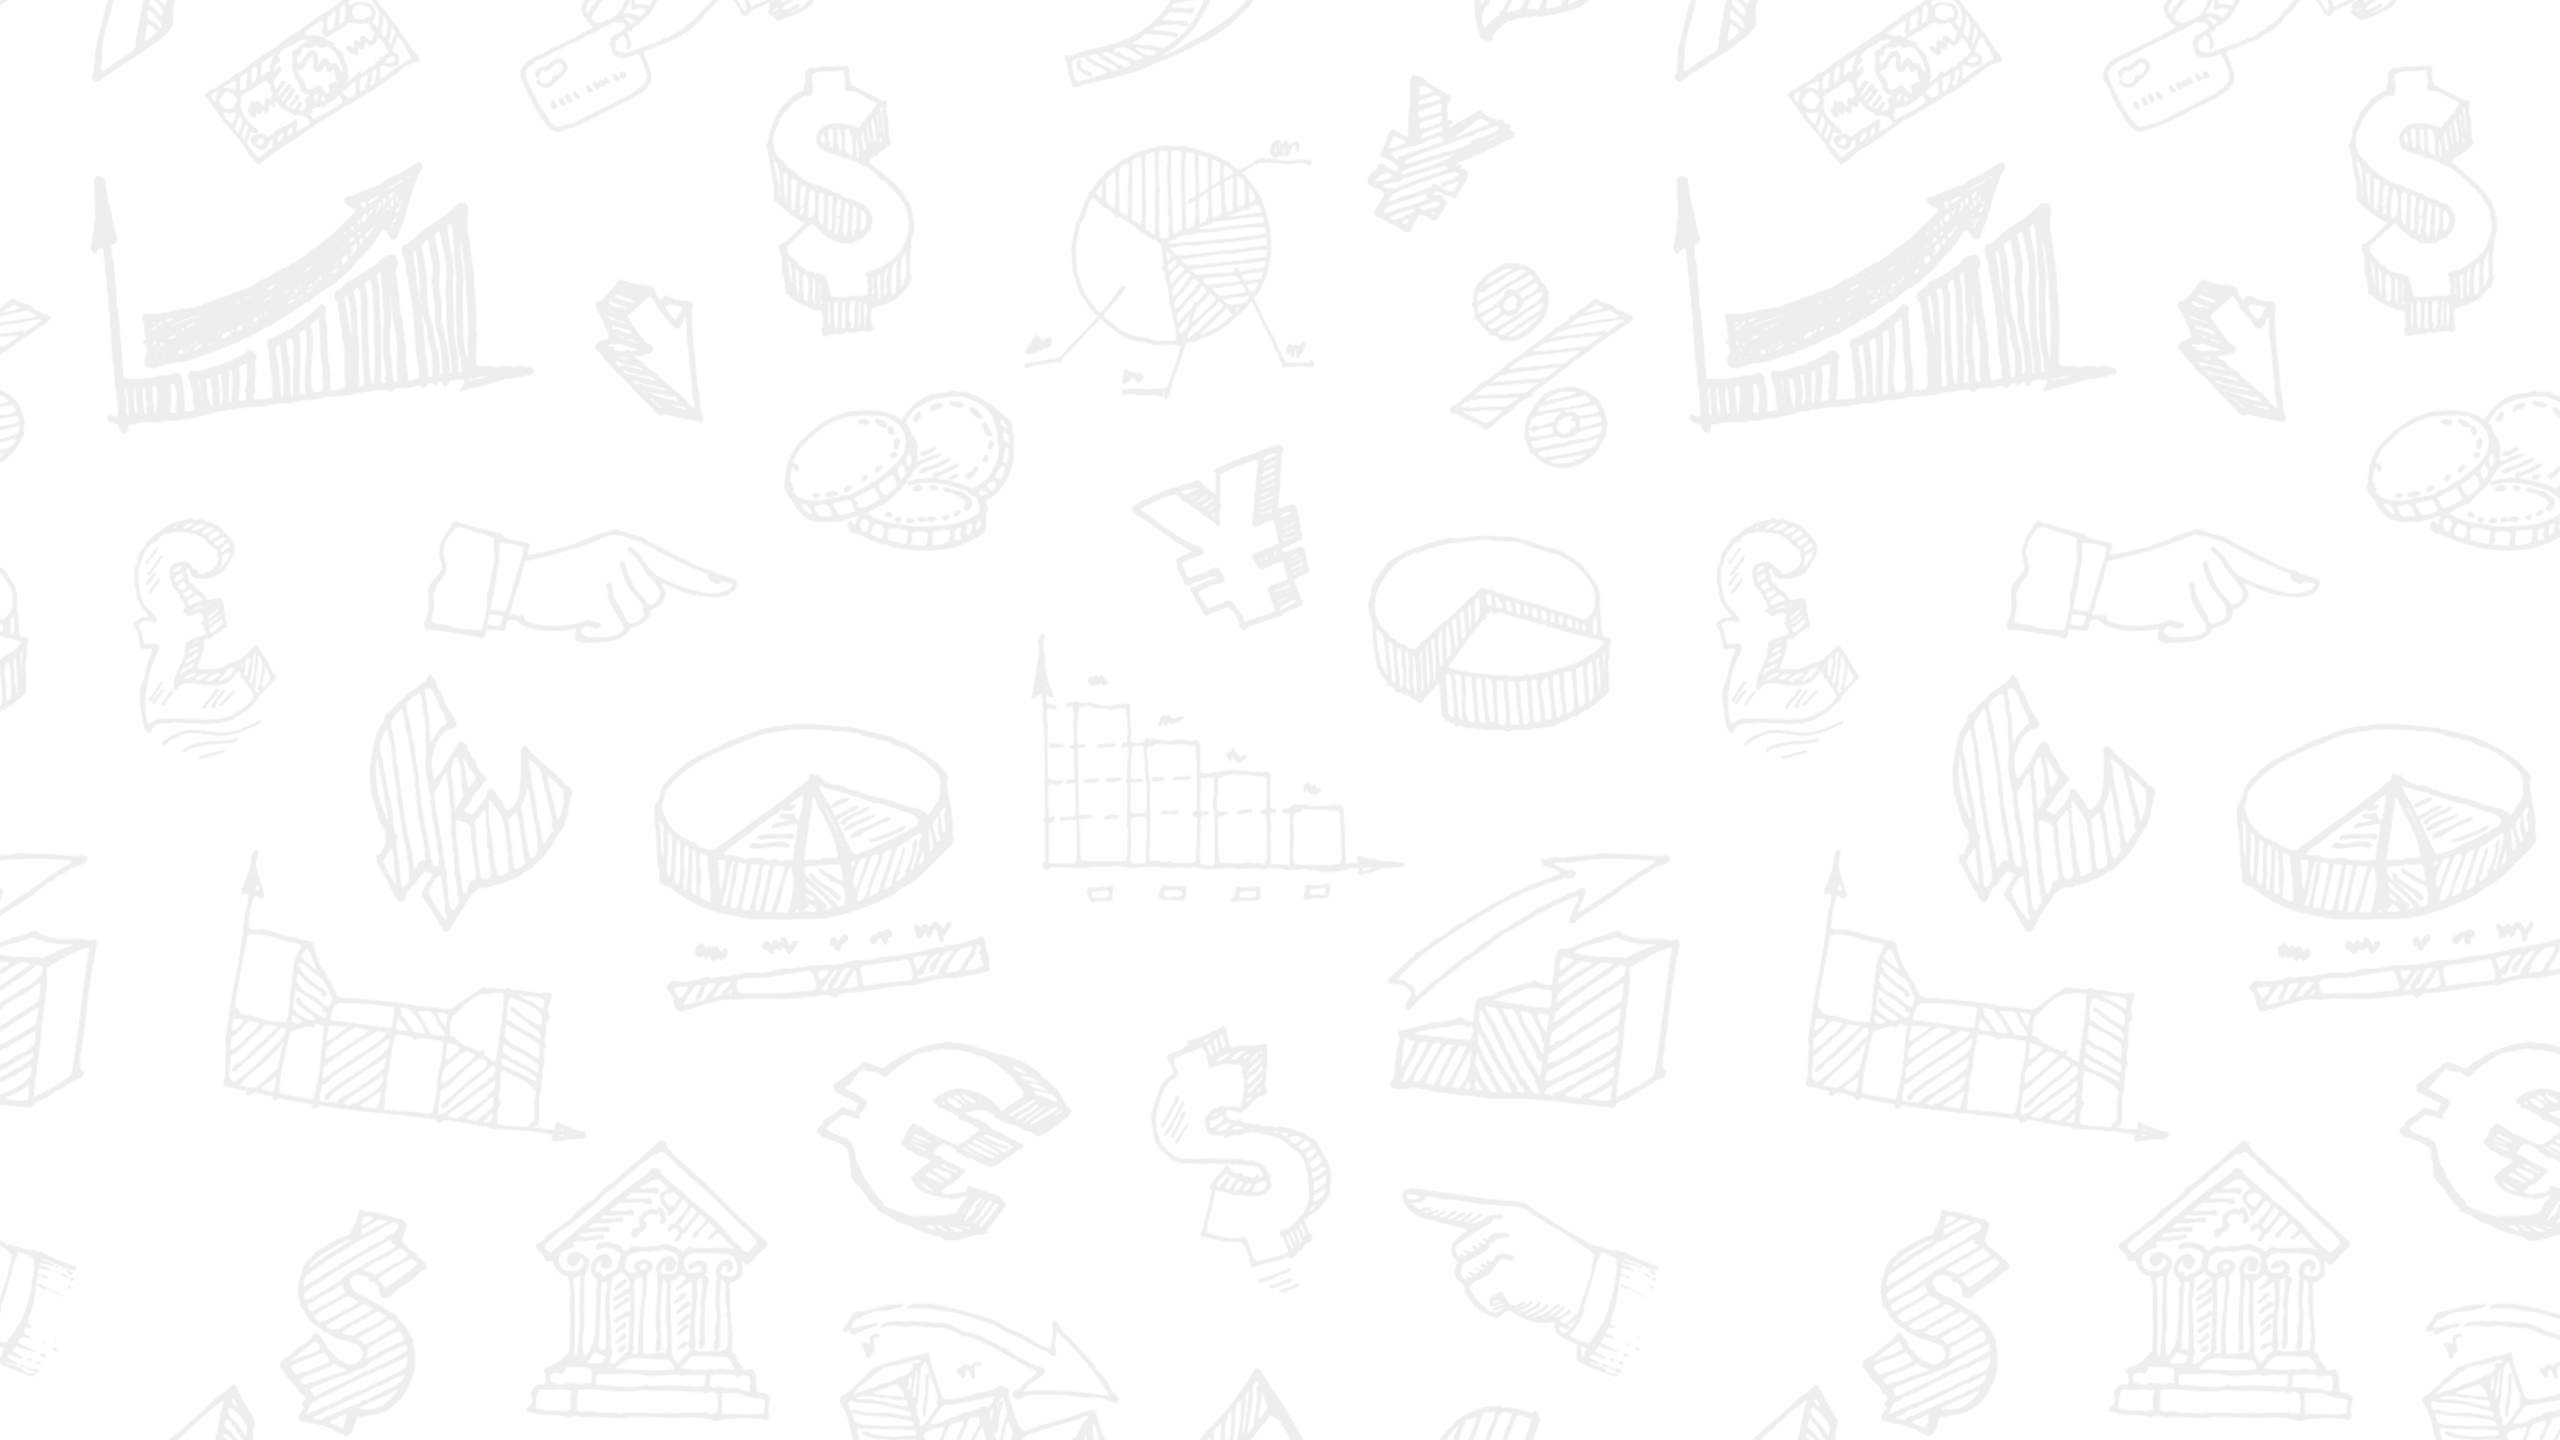
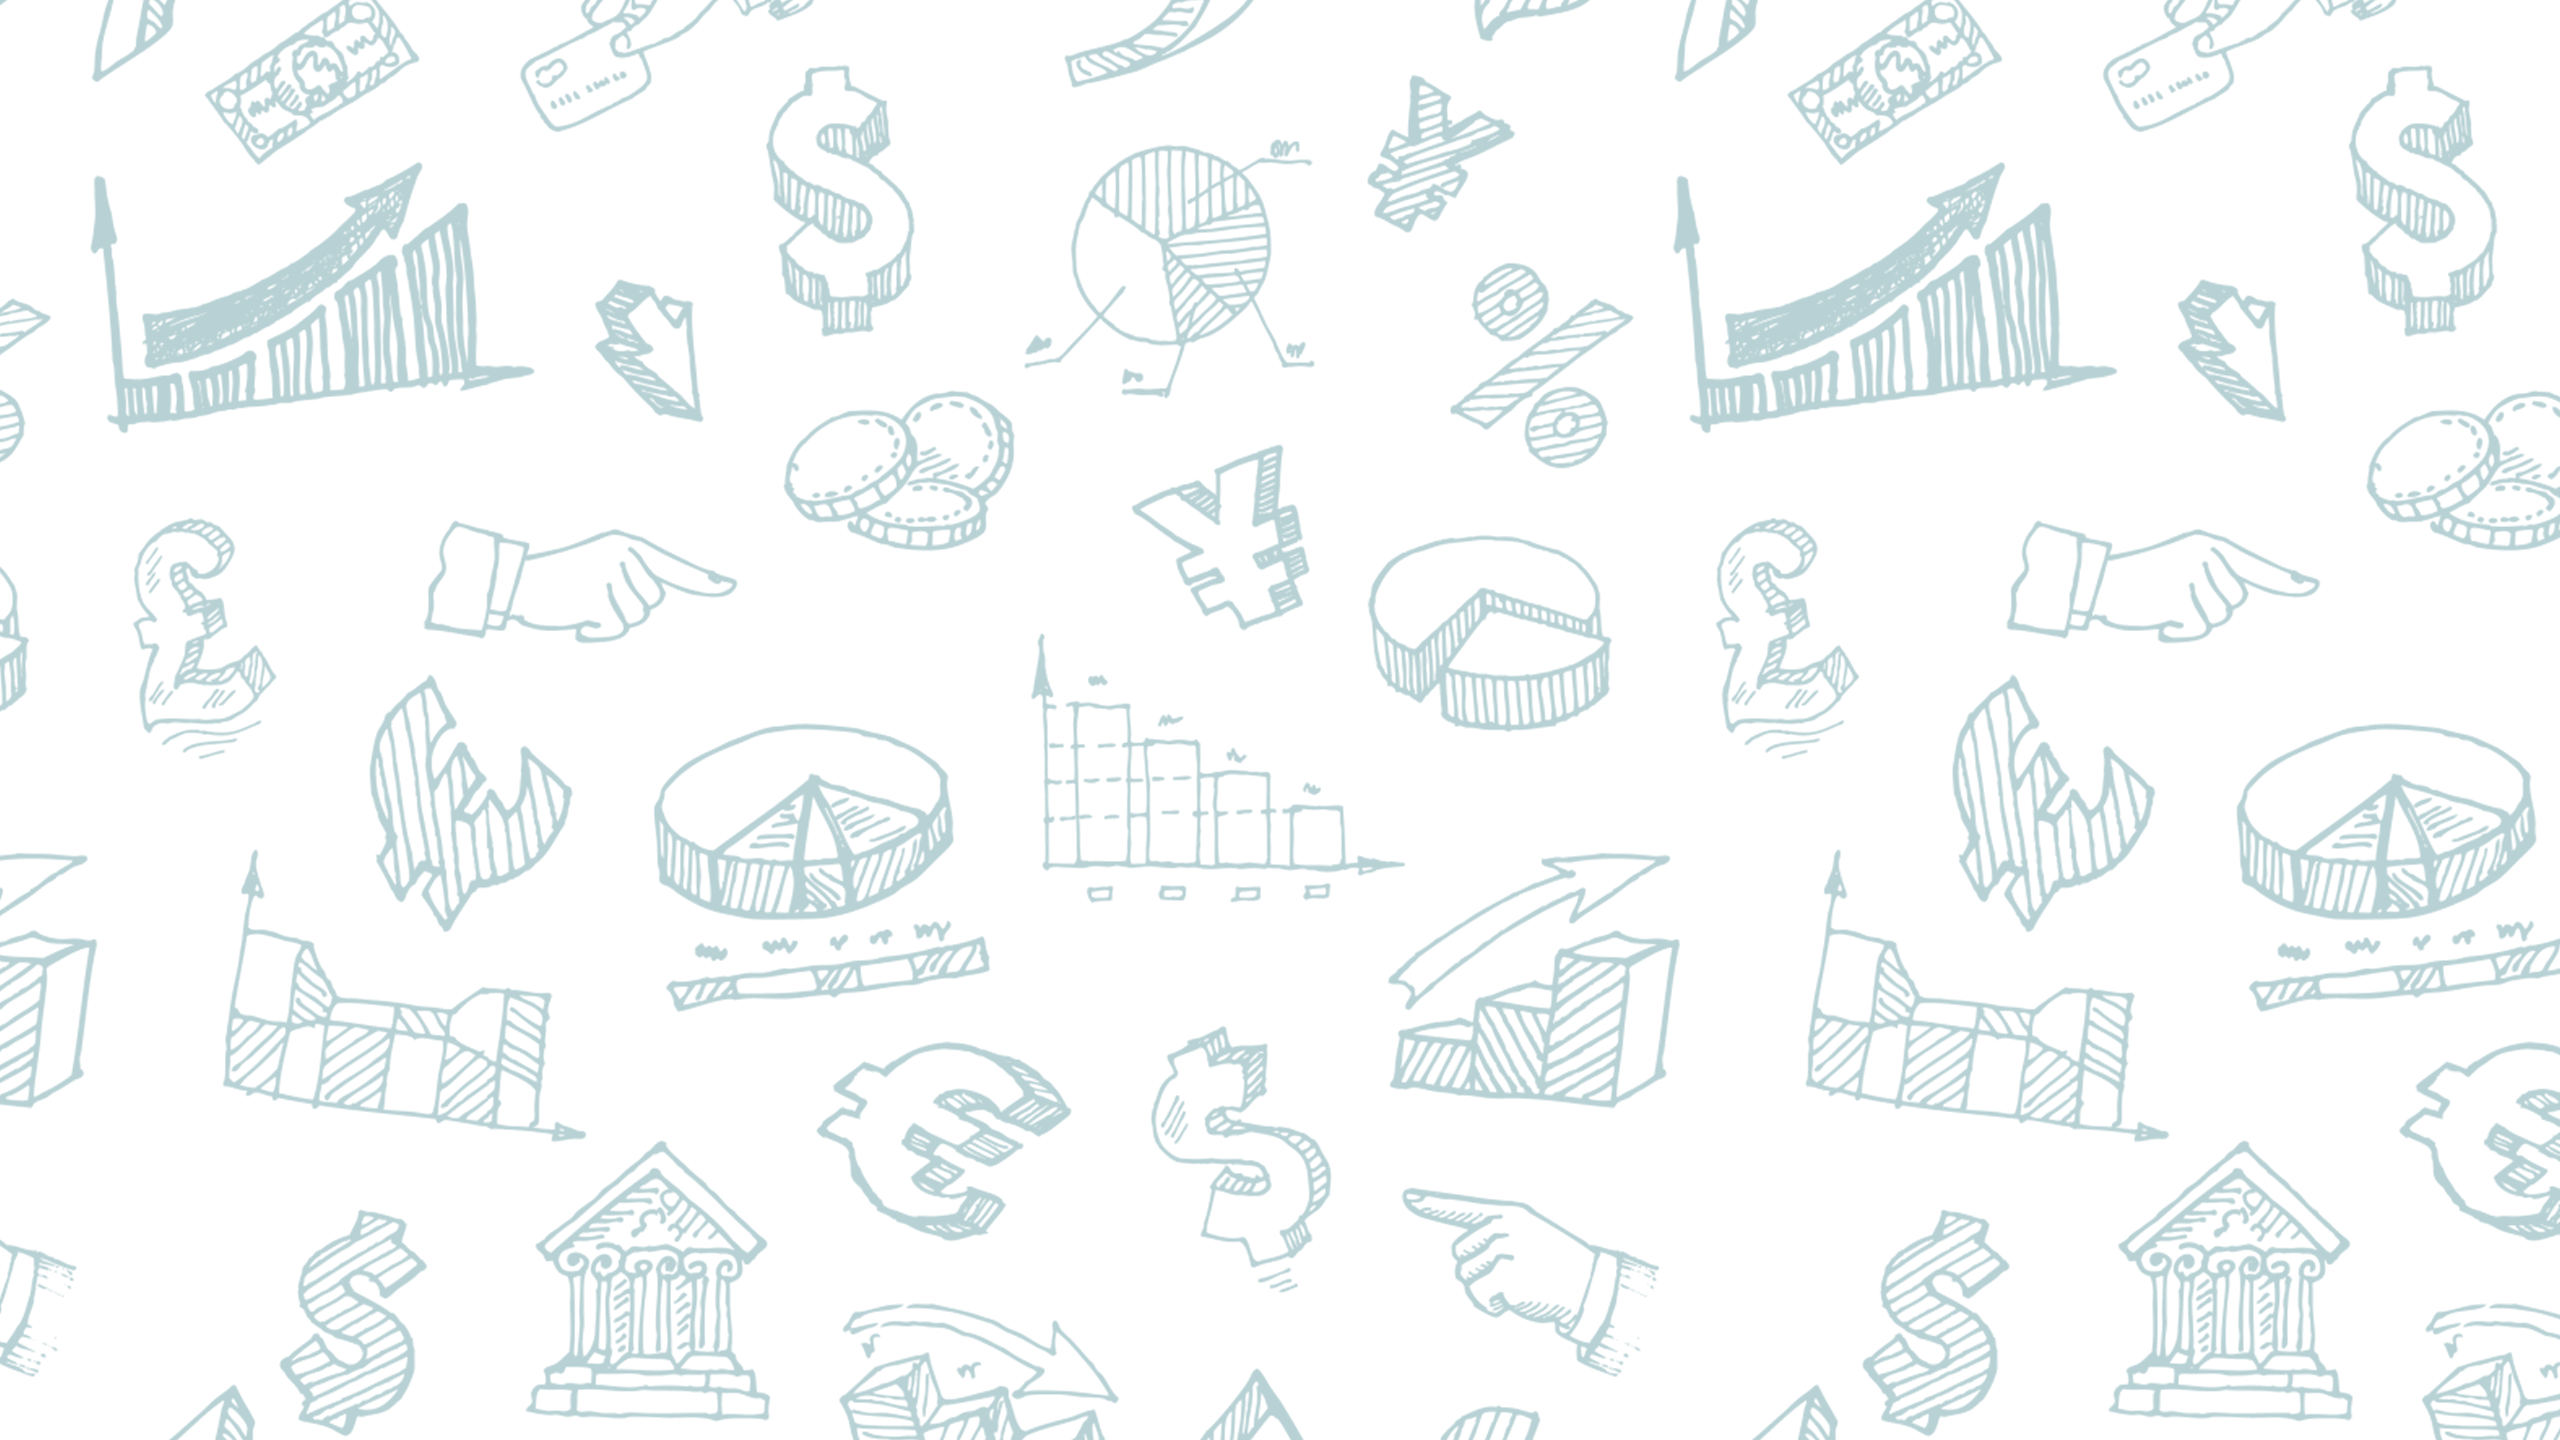
Added responsive media queries

diff --git a/index.html b/index.html
@@ -9,6 +9,8 @@
 <meta name="theme-color" content="#189DAD">
 <title>The Six-Figure Stock Portfolio &bull; Learn to Invest</title>
 <link rel="shortcut icon" href="favicon.png">
+<!-- <link rel="stylesheet" href="css/slick-theme.css"> -->
+<!-- <link rel="stylesheet" href="css/slick.css"> -->
 <link rel="stylesheet" href="https://cdn.materialdesignicons.com/2.1.19/css/materialdesignicons.min.css">
 <link rel="stylesheet" href="https://fonts.googleapis.com/css?family=Lato:400,700,900,Lora:400i">
 <link rel="stylesheet" href="css/style.css">
@@ -64,7 +66,7 @@
             </div>
         </div>
         <div id="about" class="content">
-            <div class="card flex">
+            <div class="card flex bottom-margin-fix">
                 <div class="full">
                     <h1>Learn to invest at your own pace.</h1>
                     <p>I work with financially-savvy millennials, like you. The only problem is they are intimidated by the stock market, and missing out on building wealth through self-directed investing. Instead, they watch their hard-earned dollars sit in savings accounts, high-cost mutual funds, or robo-advisors earning small returns that are diminished further by fees. You deserve to enjoy great returns on your money, receive steady passive income, and create lifetime wealth and financial security for yourself. The Six-Figure Stock Portfolio program teaches you how.
@@ -72,7 +74,7 @@
                     I bet you’re dying to start investing, but some big fears are holding you back. For example, do you ever:</p>
 
                     <ul class="flex">
-                        <li class="coin">Think you don’t have enough money to invest?</li>
+                        <li class="coin">Think you don’t have enough money or time to invest?</li>
                         <li class="coin">Feel so overwhelmed by the complexity and volatility of the stock market?</li>
                         <li class="coin">Struggle to know how to build a portfolio with great returns?</li>
                         <li class="coin">Find yourself staying away because you’re too scared to even try investing?</li>
@@ -81,7 +83,7 @@
                     <p>If any of the above sounds like you, you’re not alone. Most young people want to take a bigger role in managing their own investments, but they don't know where to begin. Instead, they're left wondering if the portfolio they're currently using is really right for them, or worse, leave their money in savings account and miss out on the returns they need to become financially secure and fund the life of their dreams.</p>
                 </div>
             </div>
-            <div class="card flex no-bottom-margin">
+            <div class="card flex bottom-margin-fix">
                 <div class="full">
                     <h1>Imagine that, instead of working so hard for your money, you could make your money work for you.</h1>
 
@@ -93,8 +95,8 @@
                 </div>
             </div>
         </div>
-        <div id="pricing" class="flex">
-            <div class="card half flex">
+        <div id="pricing" class="flex wrap">
+            <div class="card half flex add-padding-on-mobile">
                 <h1>Here’s what you get</h1>
                 <ul>
                     <li><i class="mdi mdi-creation md"></i> <strong>30+ hours of exclusive content</strong>
@@ -110,40 +112,60 @@
                     Exclusive to Six-Figure students and includes a Passive Income Planner workbook, the Top 100 US and Canadian stocks, and the Top 20 US and Canadian ETFs.</li>
                 </ul>
             </div>
-            <div class="card half flex">
+            <div class="card half flex add-padding-on-mobile">
                 <h1>Enroll now</h1>
             </div>
         </div>
         <div id="reviews">
-            <div class="card flex">
+            <div class="card">
                 <h1 class="add-padding">What people are saying</h1>
-                <div class="half">
-                    <div class="flex">
-                        <img src="http://via.placeholder.com/64x64" alt="Image">
-                        <div class="author">
-                            <h2>Amanda Droeske</h2>
-                            <p>I definitely recommend this course for those who want to make the leap into DIY investing, but need a bit of a push to do so. It has been well worth every penny so far.</p>
+                <div class="user-review flex">
+                    <div class="half">
+                        <div class="flex wrap">
+                            <img src="http://via.placeholder.com/64x64" alt="Image">
+                            <div class="author">
+                                <h2>Amanda Droeske</h2>
+                                <p>I definitely recommend this course for those who want to make the leap into DIY investing, but need a bit of a push to do so. It has been well worth every penny so far.</p>
+                            </div>
                         </div>
                     </div>
-                </div>
-                <div class="half">
-                    <div class="flex">
-                        <img src="http://via.placeholder.com/64x64" alt="Image">
-                        <div class="author">
-                            <h2>Bilal Karim</h2>
-                            <p>Bridget provides the best tips & strategies for someone like myself who recently started investing in the stock market. There’s nothing quiet like this course. I highly recommend it!</p>
+                    <div class="half">
+                        <div class="flex wrap">
+                            <img src="http://via.placeholder.com/64x64" alt="Image">
+                            <div class="author">
+                                <h2>Bilal Karim</h2>
+                                <p>Bridget provides the best tips & strategies for someone like myself who recently started investing in the stock market. There’s nothing quiet like this course. I highly recommend it!</p>
+                            </div>
                         </div>
                     </div>
+                    <!-- <div class="half">
+                        <div class="flex wrap">
+                            <img src="http://via.placeholder.com/64x64" alt="Image">
+                            <div class="author">
+                                <h2>Author 3</h2>
+                                <p>I definitely recommend this course for those who want to make the leap into DIY investing, but need a bit of a push to do so. It has been well worth every penny so far.</p>
+                            </div>
+                        </div>
+                    </div>
+                    <div class="half">
+                        <div class="flex wrap">
+                            <img src="http://via.placeholder.com/64x64" alt="Image">
+                            <div class="author">
+                                <h2>Author 4</h2>
+                                <p>Bridget provides the best tips & strategies for someone like myself who recently started investing in the stock market. There’s nothing quiet like this course. I highly recommend it!</p>
+                            </div>
+                        </div>
+                    </div> -->
                 </div>
             </div>
         </div>
         <div id="author">
-            <div class="card">
+            <div class="card add-margins">
                 <div class="full">
                     <h1>About Bridget Casey</h1>
-                    <div class="flex align-vertically">
+                    <div class="flex align-vertically wrap">
                         <div class="feature-image padding-right">
-                            <img src="https://s3.amazonaws.com/thinkific/instructors/000/002/1661481661432.small.jpg?1481661432">
+                            <img src="img/bridget-casey-sm.jpg" width="200" height="200" alt="Bridget Casey">
                             <div class="networks">
                                 <a href="https://twitter.com/moneyaftergrad"><i class="mdi mdi-twitter-box teal"></i></a>
                                 <a href="https://www.youtube.com/c/bridgeteastgaard"><i class="mdi mdi-youtube-play teal"></i></a>
@@ -189,10 +211,28 @@
                 </div>
             </div>
         </div>
-        <footer class="flex">
+        <footer class="flex wrap">
             <p>Money After Graduation Inc. | #600, 630 8 Ave SW, Calgary, AB T2P 1G6, Canada</p>
-            <p>Copyright &copy; 2018 Money After Graduation
+            <p>Copyright &copy; 2018 Money After Graduation</p>
         </footer>
     </div>
+<!-- <script src="js/jquery.min.js"></script>
+<script src="js/slick.min.js"></script>
+<script>
+$(document).ready(function() {
+    $('#about').slick({
+        touchMove: true
+    });
+    $('.user-review').slick({
+        dots: true,
+        slidesPerRow: 2,
+        slidesToShow: 2,
+        slidesToScroll: 2,
+        touchMove: true,
+        arrows: false,
+        mobileFirst: true
+    });
+});
+</script> -->
 </body>
 </html>

diff --git a/css/style.css b/css/style.css
@@ -175,14 +175,16 @@ nav a:last-child {
 }
 
 .pattern {
-    background: url('../img/bg-pattern.png');
+    /* background: #1fa7b8 url('../img/bg-pattern.png'); */
+    background: #fff url('../img/bg-pattern-white.png');
     background-size: 50%;
     padding: 1em;
+    border-radius: 0;
 }
 
 .content {
     margin: 0 auto;
-    max-width: 900px;
+    max-width: 940px;
     padding: 1em 0;
 }
 
@@ -345,6 +347,9 @@ footer {
     padding: 1.6em 1.6em 0 1.6em;
     padding-bottom: 0 !important;
 }
+.add-margins {
+    margin: 2em 1em;
+}
 .padding-right {
     padding-right: 1.5em;
 }
@@ -353,6 +358,9 @@ footer {
 }
 .no-bottom-margin {
     margin-bottom: 0 !important;
+}
+.bottom-margin-fix {
+    margin-bottom: 4px !important;
 }
 
 @media screen and (max-width: 66.750em) {
@@ -407,11 +415,8 @@ footer {
         background: linear-gradient(to top, rgba(30, 157, 173, 0) 0%, #189dad 100%);
     }
     .card {
-        padding: 1em;
+        padding: 0;
         font-size: 0.875em;
-    }
-    .content {
-        padding: 0.75em;
     }
 }
 
@@ -435,9 +440,43 @@ footer {
     .grd {
         display: none;
     }
-    .content {
+    .pattern {
         position: relative;
-        top: 258px;
+        top: 180px;
+    }
+    .content, .padding-right {
+        padding: 0;
+    }
+    .card, .wrap {
+        -webkit-flex-wrap: wrap;
+        flex-wrap: wrap;
+        margin: 0;
+    }
+    .card li.coin {
+        width: 100%;
+        padding: 0 2em;
+        background-position: 0 3px;
+    }
+    .card li.coin:first-child, .card li.coin:nth-child(1) {
+        margin-bottom: 0;
+    }
+    .third, .half {
+        width: 100%;
+    }
+    .bottom-margin-fix, #author, #reviews, .networks, #benefits {
+        margin-bottom: 1em !important;
+    }
+    .add-padding-on-mobile {
+        padding: 2em;
+        margin-bottom: 1em;
+    }
+    .feature-image {
+        width: 100%;
+    }
+    footer {
+        text-align: center;
+        -webkit-justify-content: center;
+        justify-content: center;
     }
 }
 
